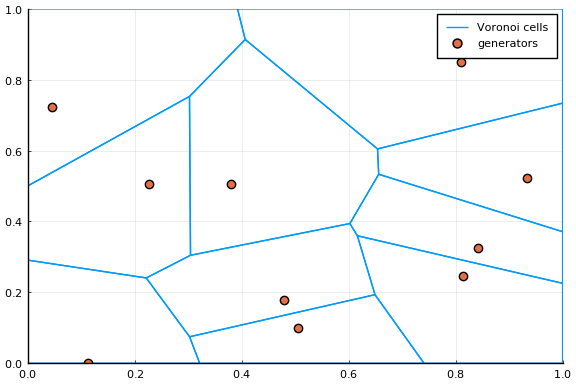
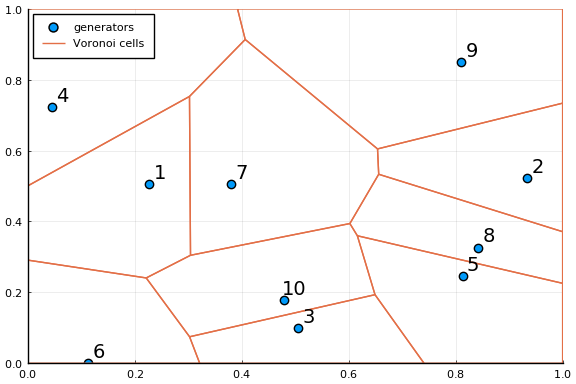
📝 Annotate generators

diff --git a/README.md b/README.md
@@ -85,15 +85,16 @@ The corners of the Voronoi cells of the `n`'th generator is available as `tess.C
 The edges of the Voronoi cells can be plotted easily and then we can add the generators afterwards:
 
 ```julia
-plot(tess)
-scatter!(points, markershape = :circle, markersize = 6, label = "generators")
+scatter(points, markersize = 6, label = "generators")
+annotate!([(points[n][1] + 0.02, points[n][2] + 0.03, Plots.text(n)) for n in 1:10])
+plot!(tess, legend=:topleft)
 ```
 
 ![](doc/README_tesselation.png_1.png)
 
 
 
-The function `voronoiarea` computes the areas of each Voronoi cell:
+The function `voronoiarea` computes the area of each Voronoi cell:
 
 ```julia
 voronoiarea(tess)
